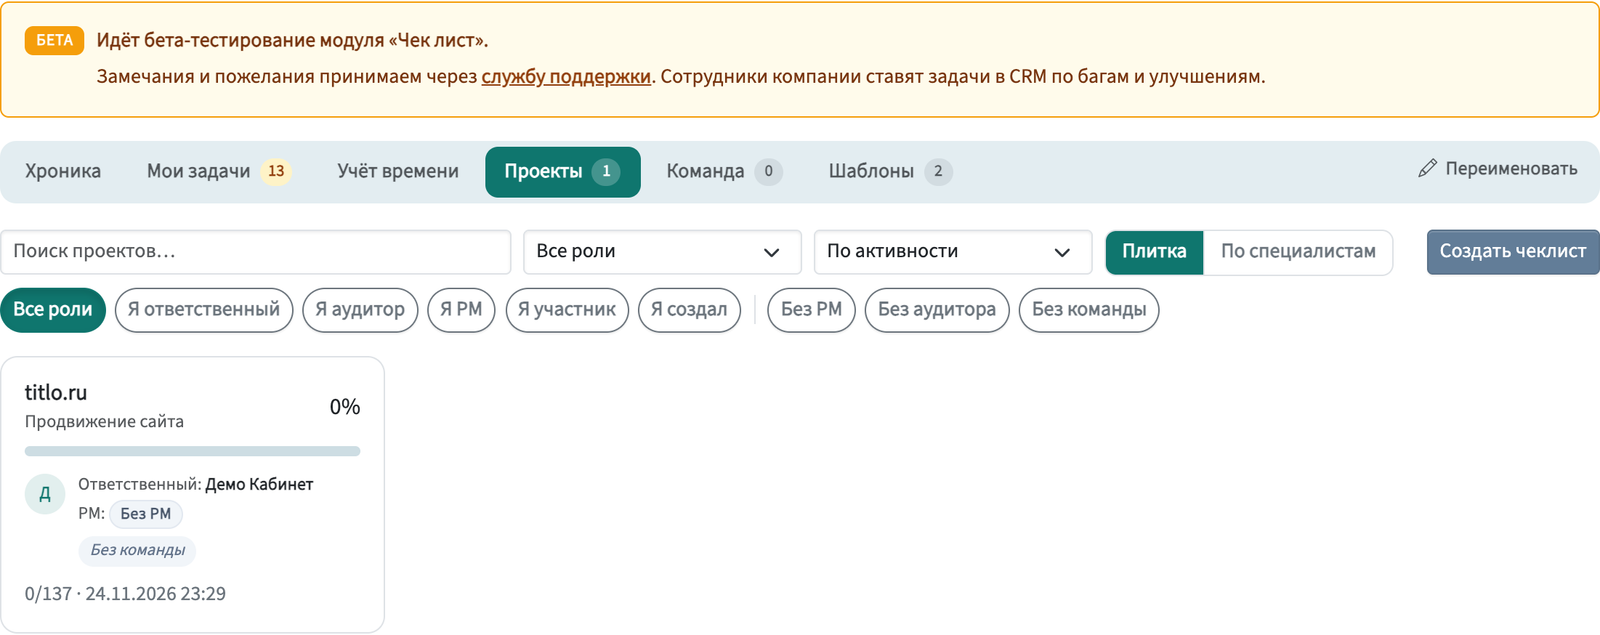
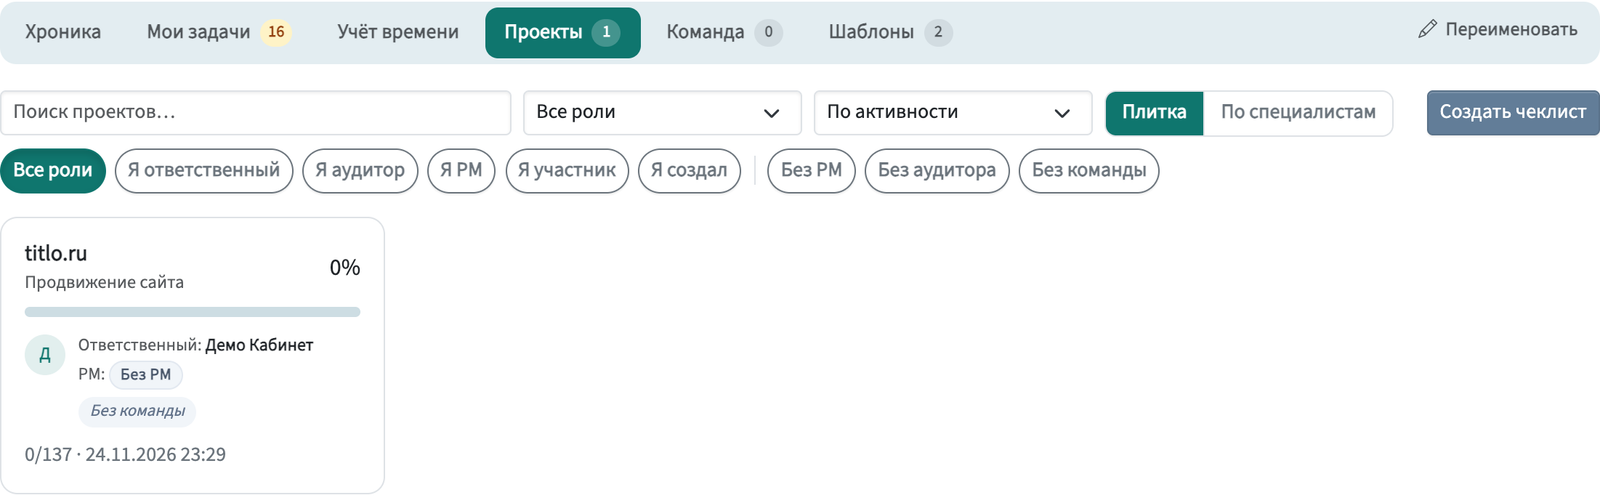
fix(site): скрины чеклиста без плашки беты, задачи без пустого поля слева

Changed region(s): [[0.0, 0.1815, 1.0, 0.9677], [0.0, 0.0, 1.0, 0.1512]]

diff --git a/components/module-landings/monitoring-v2/MonitoringV2StoryActs.tsx b/components/module-landings/monitoring-v2/MonitoringV2StoryActs.tsx
@@ -40,7 +40,8 @@ function actImageClass(image: string) {
     image.includes("meta-tags-shot") ||
     image.includes("monitoring-v2-shot") ||
     image.includes("wordstat-shot") ||
-    image.includes("reports-shot")
+    image.includes("reports-shot") ||
+    image.includes("checklist-shot")
   )
     return "";
   return "aspect-[739/385] min-h-[240px]";
@@ -68,7 +69,8 @@ function isCabinetShot(image: string) {
     image.includes("meta-tags-shot") ||
     image.includes("monitoring-v2-shot") ||
     image.includes("wordstat-shot") ||
-    image.includes("reports-shot")
+    image.includes("reports-shot") ||
+    image.includes("checklist-shot")
   );
 }
 
